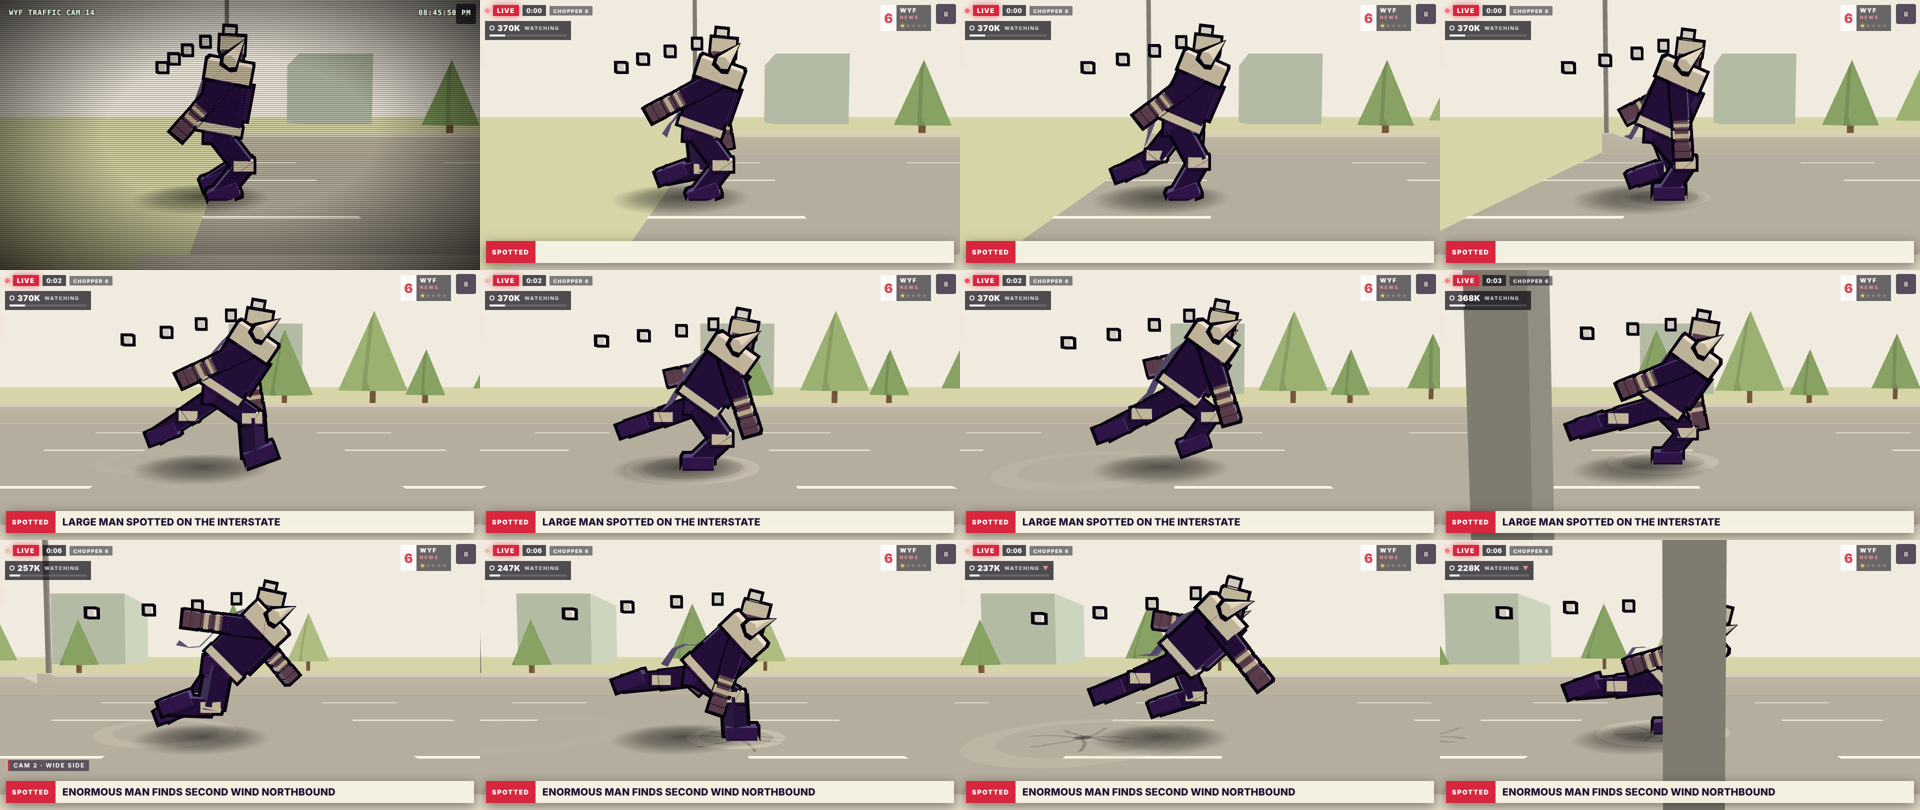
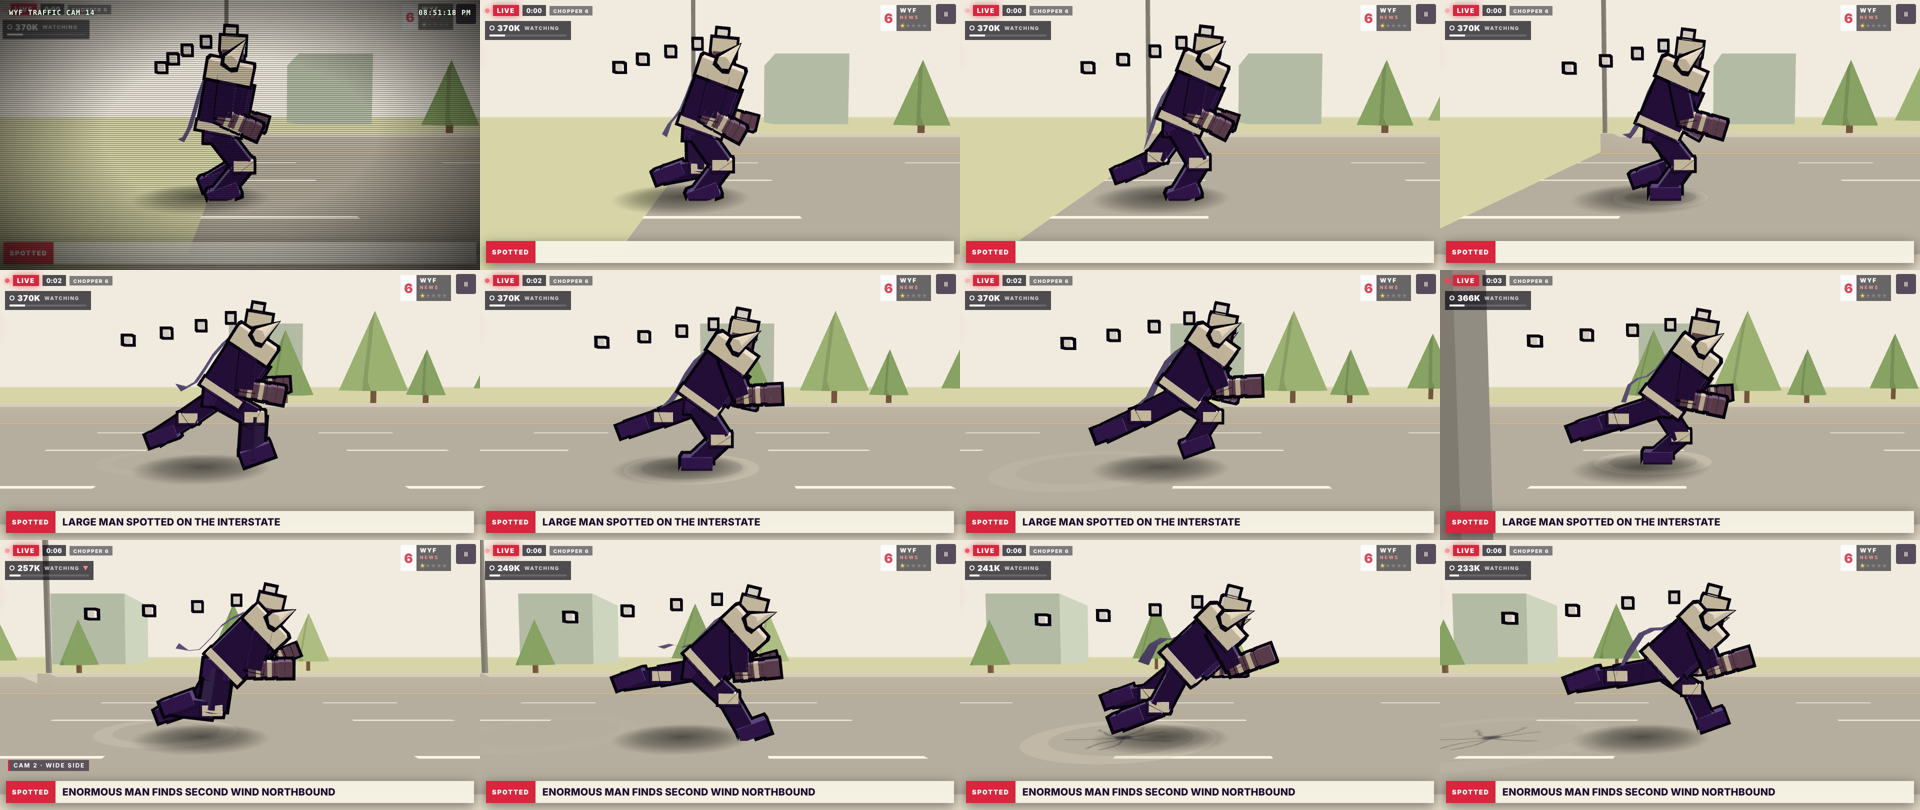
Run pose from the clip: bent-arm guard, gliding torso
Mike's clip (16 frames, one stride cycle): elbows bent with fists held
forward at the chest and a small pump, not a big swing; the torso glides
with little bob. Adds an elbow joint; the bound is reduced. Feet still
pinned; cadence band unchanged (the clip's ~3.1 steps/s is a GDD call).

Claude-Session: https://claude.ai/code/session_01U6CEtzx2Qyu3T5g249mius

diff --git a/src/render/giant.ts b/src/render/giant.ts
@@ -52,6 +52,8 @@ export class GiantView {
   private head = new THREE.Group();
   private armL = new THREE.Group();
   private armR = new THREE.Group();
+  private elbowL = new THREE.Group();
+  private elbowR = new THREE.Group();
   private braid: THREE.Mesh[] = [];
   private shadow: THREE.Mesh;
   private legs = new THREE.Group();
@@ -98,20 +100,22 @@ export class GiantView {
       this.torso.add(pauldron, horn);
     }
 
-    // Arms (trail behind the body).
-    for (const [arm, z] of [[this.armL, 0.86], [this.armR, -0.86]] as const) {
+    // Arms: shoulder + elbow, so the run can hold a bent-arm guard (fists forward at the chest).
+    for (const [arm, elbow, z] of [[this.armL, this.elbowL, 0.86], [this.armR, this.elbowR, -0.86]] as const) {
       arm.position.set(0, 1.25, z);
       const upper = box(0.34, 0.85, 0.34, PALETTE.giantBody);
       upper.position.y = -0.42;
+      elbow.position.y = -0.85;
       const fore = box(0.3, 0.75, 0.3, PALETTE.giantSkin);
-      fore.position.y = -1.1;
+      fore.position.y = -0.25;
       const band1 = box(0.33, 0.1, 0.33, PALETTE.giantBand);
-      band1.position.y = -0.95;
+      band1.position.y = -0.1;
       const band2 = band1.clone();
-      band2.position.y = -1.2;
+      band2.position.y = -0.35;
       const fist = box(0.34, 0.3, 0.34, PALETTE.giantSkin);
-      fist.position.y = -1.55;
-      arm.add(upper, fore, band1, band2, fist);
+      fist.position.y = -0.7;
+      elbow.add(fore, band1, band2, fist);
+      arm.add(upper, elbow);
       this.torso.add(arm);
     }
 
@@ -254,15 +258,20 @@ export class GiantView {
     this.head.rotation.set(-this.bank * 0.8, -twist, this.lean * 0.85);
     this.head.position.y = 1.6 + TUNING.tiers[p.tier].bodyDrop * gait.drop * 0.6;
 
-    // Arm pump opposite the legs: the lead fist drives forward at shoulder height, the other
-    // pulls back. Snapped so the arms hold the strong poses and move fast through the middle.
+    // Bent-arm guard (Mike's reference clip): elbows bent, fists forward at the chest, a small
+    // pump opposite the legs, snapped so it holds the strong poses. Angles are against the
+    // world (the lean is compensated), so the guard stays forward however low he leans.
     const raw = Math.sin(ph);
     const pump = Math.sign(raw) * Math.pow(Math.abs(raw), TUNING.gait.poseSnap) * T.armSwing;
-    // The lean tips the shoulders forward; compensate so "forward" stays forward in the world.
-    const lean = this.lean * 0.6;
+    const lean = this.lean;
     this.armL.rotation.set(0.18, 0, T.armBase - pump + lean);
     this.armR.rotation.set(-0.18, 0, T.armBase + pump + lean);
-    if (sh > 0) this.armL.rotation.set(0.6 * sh, 0, 0.9 * sh);
+    this.elbowL.rotation.set(0, 0, T.elbowBend + pump * 0.5);
+    this.elbowR.rotation.set(0, 0, T.elbowBend - pump * 0.5);
+    if (sh > 0) {
+      this.armL.rotation.set(0.6 * sh, 0, 0.9 * sh);
+      this.elbowL.rotation.set(0, 0, 0.3 * (1 - sh));
+    }
 
     this.root.updateMatrixWorld(true);
 

diff --git a/src/tuning.ts b/src/tuning.ts
@@ -50,6 +50,8 @@ export interface TierTuning {
   armBase: number;
   /** Bound: how high the hips rise through the airborne part of each stride (m). */
   flightLift: number;
+  /** Elbow bend (rad): the forearm folds forward so the fists ride in front of the chest. */
+  elbowBend: number;
 }
 
 export interface CameraAngle {
@@ -96,11 +98,12 @@ export const TUNING = {
 
   /** Momentum tiers: v0.2 speeds and timings, v0.3 lane-change times and run cycle. */
   tiers: [
-    // Pose pass (Mike's reference stills): torso near horizontal at Rampage, low hips, heavy plant,
-    // knees tucked high in flight, a big arm pump. Speeds, cadence and stride are unchanged.
-    { name: 'Jog', topSpeed: 6, accel: 8, tierUpAfter: 2.0, smashes: 'light', laneChangeTime: 0.22, cadence: 2.0, specStrideLength: 2.5, leanDeg: 20, hipHeight: 1.68, bodyDrop: 0.12, footLift: 0.45, cameraDistanceScale: 0.9, armSwing: 0.65, armBase: -0.3, flightLift: 0.05 },
-    { name: 'Stride', topSpeed: 10, accel: 6, tierUpAfter: 3.0, smashes: 'medium', laneChangeTime: 0.3, cadence: 2.1, specStrideLength: 4.0, leanDeg: 30, hipHeight: 1.64, bodyDrop: 0.18, footLift: 0.75, cameraDistanceScale: 1.0, armSwing: 0.95, armBase: -0.2, flightLift: 0.14 },
-    { name: 'Rampage', topSpeed: 15, accel: 4, tierUpAfter: Infinity, smashes: 'heavy', laneChangeTime: 0.4, cadence: 2.3, specStrideLength: 6.0, leanDeg: 40, hipHeight: 1.6, bodyDrop: 0.24, footLift: 1.05, cameraDistanceScale: 1.15, armSwing: 1.2, armBase: -0.1, flightLift: 0.26 },
+    // Pose pass (Mike's reference stills + clip): deep lean, legs cycling under a gliding torso
+    // (little bob), knee drive and heel kick, bent-arm guard with a small pump. Speeds, cadence
+    // and stride are unchanged.
+    { name: 'Jog', topSpeed: 6, accel: 8, tierUpAfter: 2.0, smashes: 'light', laneChangeTime: 0.22, cadence: 2.0, specStrideLength: 2.5, leanDeg: 20, hipHeight: 1.68, bodyDrop: 0.12, footLift: 0.45, cameraDistanceScale: 0.9, armSwing: 0.25, armBase: 0.05, flightLift: 0.03, elbowBend: 1.2 },
+    { name: 'Stride', topSpeed: 10, accel: 6, tierUpAfter: 3.0, smashes: 'medium', laneChangeTime: 0.3, cadence: 2.1, specStrideLength: 4.0, leanDeg: 30, hipHeight: 1.64, bodyDrop: 0.18, footLift: 0.75, cameraDistanceScale: 1.0, armSwing: 0.3, armBase: 0.2, flightLift: 0.07, elbowBend: 1.4 },
+    { name: 'Rampage', topSpeed: 15, accel: 4, tierUpAfter: Infinity, smashes: 'heavy', laneChangeTime: 0.4, cadence: 2.3, specStrideLength: 6.0, leanDeg: 40, hipHeight: 1.6, bodyDrop: 0.24, footLift: 1.05, cameraDistanceScale: 1.15, armSwing: 0.35, armBase: 0.3, flightLift: 0.11, elbowBend: 1.6 },
   ] as TierTuning[],
 
   tierDrop: {

diff --git a/DECISIONS.md b/DECISIONS.md
@@ -4,7 +4,7 @@ Build-time decisions, working defaults for open questions (GDD §46), and deviat
 
 | Date | Decision | Why | Revisit |
 |---|---|---|---|
-| 2026-11-13 | **Run pose pass from Mike's reference stills** (motion language only; no character, model or identifiers taken). Lean 20° / 30° / 40° (was 14/22/30); hips higher (1.68 / 1.64 / 1.60, legs near-straight at the plant; the first try at 1.22–1.44 folded the knees to the ground and read as a scuttle); plant drop 0.12 / 0.18 / 0.24m; a bound (hips rise 0.05 / 0.14 / 0.26m through the airborne part of each stride); swing foot kicks up early and hangs back before whipping forward (knee tuck); foot lift 0.45 / 0.75 / 1.05m; arm pump opposite the legs (lead fist forward, the other back; amplitude 0.65 / 0.95 / 1.2 rad), snapped (pose-hold exponent 0.55); stronger shoulder roll. Speeds, cadence and stride unchanged; feet still pinned (0.00cm slide over ~58k plants); early lifts 5% → 8%. Dev: `?posecam=1` renders side-on beside him. | Mike: make the run read like that reference. | Mike's feel check |
+| 2026-11-13 | **Run pose pass from Mike's reference stills** (motion language only; no character, model or identifiers taken). Lean 20° / 30° / 40° (was 14/22/30); hips higher (1.68 / 1.64 / 1.60, legs near-straight at the plant; the first try at 1.22–1.44 folded the knees to the ground and read as a scuttle); plant drop 0.12 / 0.18 / 0.24m; a bound (hips rise 0.05 / 0.14 / 0.26m through the airborne part of each stride); swing foot kicks up early and hangs back before whipping forward (knee tuck); foot lift 0.45 / 0.75 / 1.05m; arms (revised after Mike's clip, 16 frames = one stride cycle in 0.64s): **bent-arm guard**, a new elbow joint folds the forearms forward (1.2 / 1.4 / 1.6 rad) so the fists ride in front of the chest, with a small snapped pump (0.25 / 0.3 / 0.35 rad), angles compensated for the lean; the bound is kept small (0.03 / 0.07 / 0.11m) because the clip's torso glides; stronger shoulder roll. Not adopted from the clip: its cadence (~3.1 steps/s) is above the v0.3 band (2.0–2.3, Mike's 'heavy run, flat cadence' call); raising it is a GDD change. Speeds, cadence and stride unchanged; feet still pinned (0.00cm slide over ~58k plants); early lifts 5% → 8%. Dev: `?posecam=1` renders side-on beside him. | Mike: make the run read like that reference. | Mike's feel check |
 | 2026-11-13 | **Phase 1 Foundation: the game runs inside the SLU Web Shell** (Mike: "go ahead with the shell integration"). The game is the shell's renderer adapter: load level = a new broadcast with the player driving; unload = back to the menus; suspend/resume = pause. The shell owns title → main menu (Play, Settings) → mode select ("Live Broadcast") → pause (Resume / Restart = same road / Settings / Quit) and settings (its master volume, reduced motion, screen shake and vibration drive the game; the game adds Camera Cuts, LIVE TIME, Reduce Flashes, Debug Overlay). Behind the title and menus the bot runs an attract broadcast. The 11 O'Clock Recap stays the results screen (§20), with buttons routed through the shell's results flow, gamepad navigation, and bests saved in shell storage. Shell screens restyled to the broadcast cards; no placeholder Challenges or Credits. `?bot`/`?autostart` skip the menus. | GDD §40 Phase 1; shell constitution (largest playable, full menu/results/retry loop on every device). | — |
 | 2026-11-13 | **Shell dependency: the private repo pinned by commit** (`git+https://github.com/mikeylambo/Web-Game-Shell-v1.02.git#7003ec7`, v1.3.0). WarnYourFriends is public and the shell is private, so the shell's code is not vendored into this repo (a vendored copy was built and tested, but committing it would have published it; that's Mike's call). **Vercel needs a `GITHUB_TOKEN` (Contents: read on the shell repo) and the install command from the shell's `docs/PRIVATE-REPO-INSTALLS.md` before this builds there**; until then this lives on the feature branch only and production stays on the Phase 2 build. | Keep the shell private. | When Mike adds the token (or chooses to vendor) |
 | 2026-11-12 | **Feel check passed; Phase 2 started.** Mike: "go ahead with 1–3" after playing 0c. Order changed from §40 at his request: core playable (Phase 2), broadcast escalation and road variety come before Phase 1 Foundation, whose 6×6 Downtown exit belongs to the superseded city design. The shell (Web-Game-Shell-v1.02) is now available to this session; adopting it is the next foundation step. | Mike's direction. | Next session |
